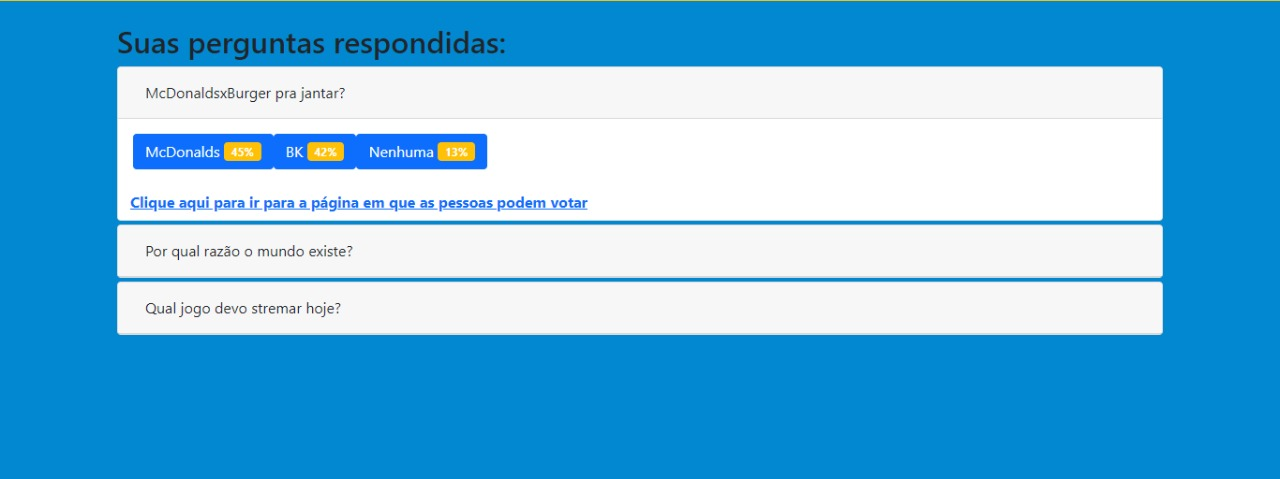
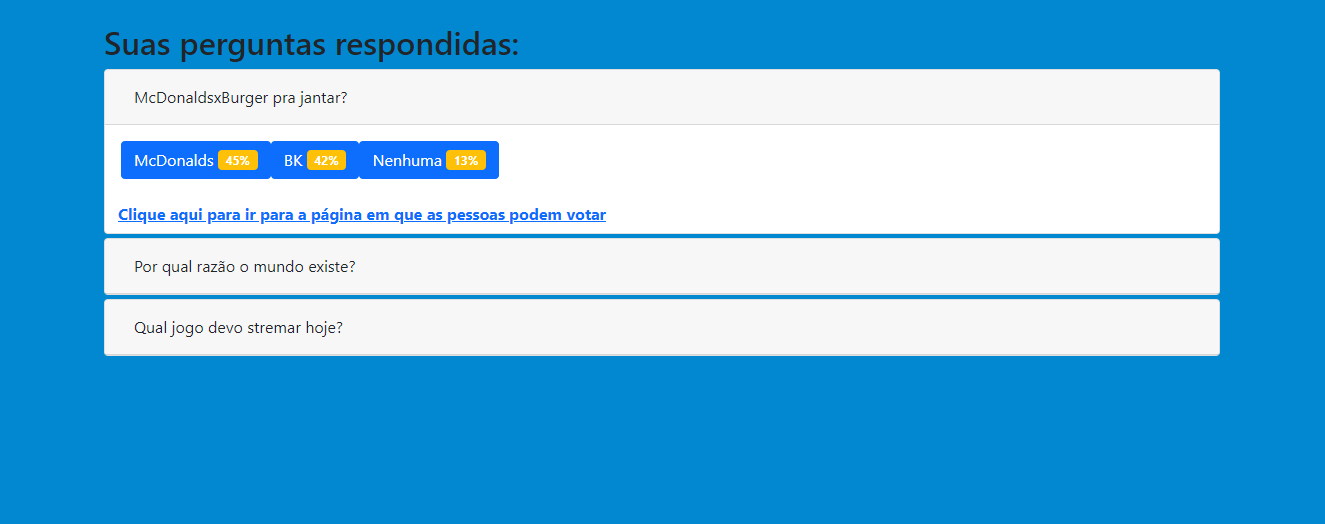
melhorando a qualidade das imagens e adicionando teste de seu perfil

Changed region(s): [[0.0625, 0.0585, 0.9375, 0.7015], [0.0, 0.0, 1.0, 0.0292]]

diff --git a/Pages/SeuPerfil.html b/Pages/SeuPerfil.html
@@ -34,6 +34,15 @@
 			</nav>
 		</header>
 
+		<div center container mt-3>
+            <img class="img-prof" align-left src="../img/profile.png" >
+            <p center>email: dagoberto_streamer@gmail.com</p>
+            <p center >Idade: 17 anos</p>
+            <p center>Membro da comunidade desde: 01/09/2021</p>
+            <p center>Quantidade de perguntas realizadas: 19 </p>
+            <p center>Quantidade de perguntas respondidas: 43</p>
+        </div>
+
 		<script src="../node_modules/bootstrap/dist/js/bootstrap.js"></script>
 		<script src="../node_modules/@popperjs/core/dist/esm/popper.js"></script>
 		<script src="../node_modules/jquery/dist/jquery.js"></script>
